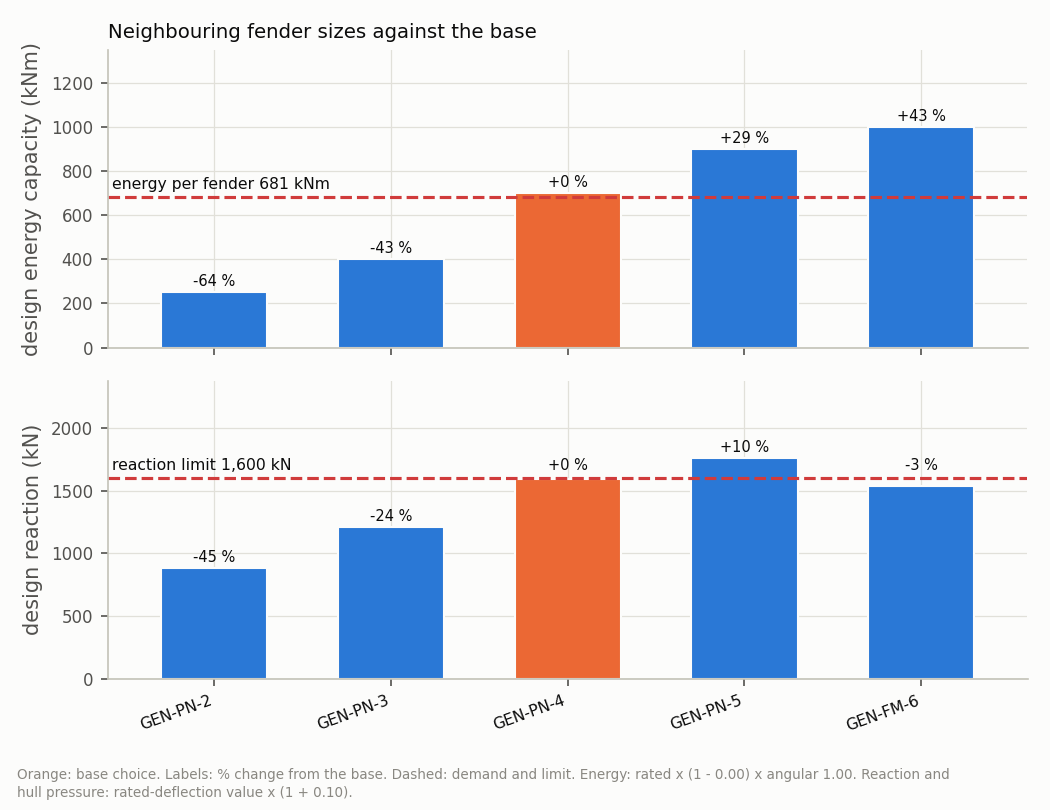
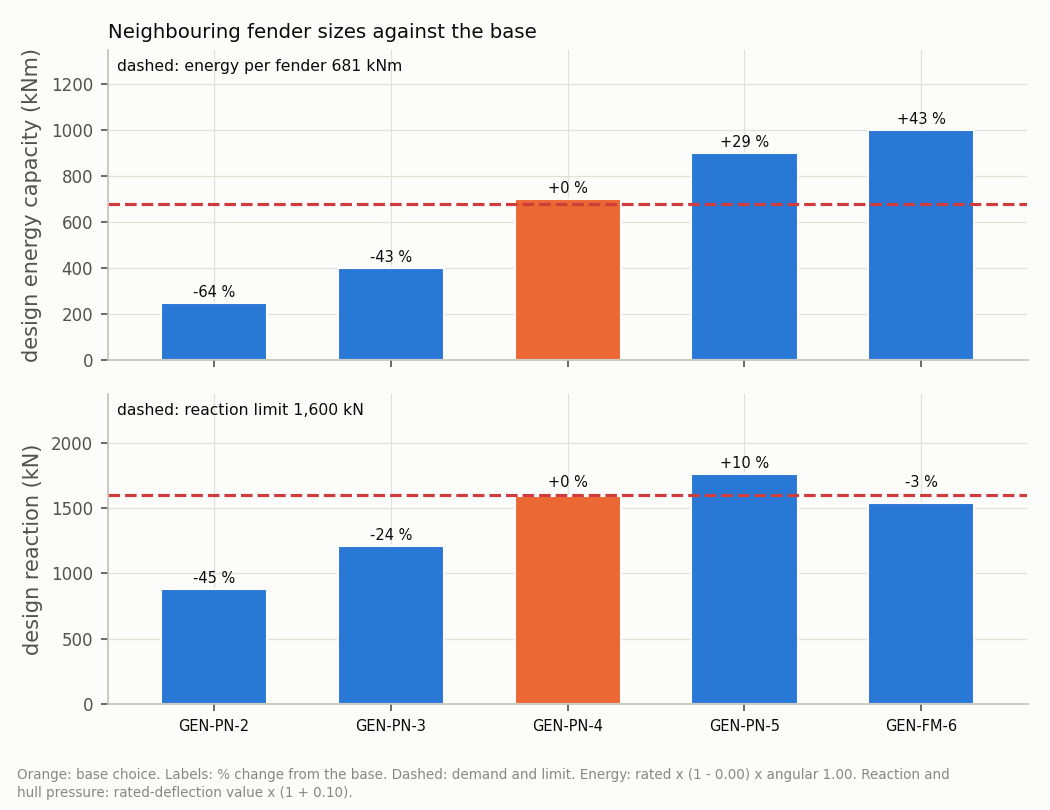
fix(fender-design): chart labels clear for cases beyond the generic one
The layout check passed for the generic case while a client case built from
this module still failed it (second-provider review of that report, P3):

- size chart: the limit labels sat beside their lines, where a bar label can
  sit; the dashed lines are now named in the headroom above the bars, and the
  size names are wrapped and upright (rotated names overlapped);
- sweep chart: the reaction limit label is moved beside the 'reaches limit'
  line when that line would cross it;
- method charts: the label of the capacity or utilisation line turns to the
  left of the line when it would run past the right end of the axes.

Tests: one per defect, on synthetic data. Generic report: only sizes.png
changes; no number moves.

diff --git a/examples/hydrodynamics/fender_design/fender_charts.py b/examples/hydrodynamics/fender_design/fender_charts.py
@@ -9,8 +9,11 @@ Colours follow a fixed categorical order; limit lines use one reserved
 "limit" colour and always carry a text label, so colour is never the only cue.
 
 Layout: value axes keep headroom above the largest value or limit
-(:data:`HEADROOM`), limit labels sit just clear of their line, footnotes are
-wrapped inside a band reserved below the axes, and every chart is checked
+(:data:`HEADROOM`), limit labels sit just clear of their line and of any
+vertical limit line, a label beside a vertical line turns to the side with
+room, the limits of the size chart are named in the headroom, long category
+names are wrapped, footnotes are wrapped inside a band reserved below the
+axes, and every chart is checked
 before it is written (:func:`layout_issues`): text outside the figure,
 overlapping text or text across a limit line raises a
 :class:`ChartLayoutWarning`.
@@ -90,9 +93,14 @@ def _headroom(ax, *values):
     ax.set_ylim(0, HEADROOM * top if top > 0 else 1.0)
 
 
-def _limit_label(ax, xs, ys, y_line, text):
+def _limit_label(ax, xs, ys, y_line, text, clear_x=()):
     """Label a horizontal limit line just above it, at the end of the x range
-    where the data are lower (an end without data counts as lower)."""
+    where the data are lower (an end without data counts as lower).
+
+    ``clear_x`` are the x positions of vertical lines in the same axes: after
+    layout a label that one of them would cross is moved beside it, to the
+    side with room (:func:`_beside`).
+    """
     first, last = ys[0], ys[-1]
     if not math.isfinite(first):
         left = True
@@ -101,8 +109,31 @@ def _limit_label(ax, xs, ys, y_line, text):
     else:
         left = first <= last
     x, ha, dx = (xs[0], "left", 2.0) if left else (xs[-1], "right", -2.0)
-    return ax.annotate(text, (x, y_line), textcoords="offset points", xytext=(dx, GAP_PT),
-                       ha=ha, va="bottom", fontsize=7.5, color=INK)
+    label = ax.annotate(text, (x, y_line), textcoords="offset points", xytext=(dx, GAP_PT),
+                        ha=ha, va="bottom", fontsize=7.5, color=INK)
+    if clear_x:
+        _beside(ax.figure, ax, label, clear_x)
+    return label
+
+
+def _beside(fig, ax, label, at):
+    """After layout, move the offset-point annotation ``label`` off each
+    vertical line at the data positions ``at`` that crosses it: to the right
+    of the line when the label then still ends inside the axes, else to its
+    left."""
+    def hook(renderer):
+        gap = (GAP_PT + 1.0) * fig.dpi / 72.0
+        ab = ax.get_window_extent(renderer)
+        for v in sorted(at):
+            bb = label.get_window_extent(renderer)
+            p = ax.transData.transform((v, 0.0))[0]
+            if not (bb.x0 - gap < p < bb.x1 + gap):
+                continue
+            right = p + gap + bb.width <= ab.x1 - 1.0
+            shift = (p + gap - bb.x0) if right else (p - gap - bb.x1)
+            dx, dy = label.xyann
+            label.xyann = (dx + shift * 72.0 / fig.dpi, dy)
+    fig._after_layout.append(hook)
 
 
 def _corner_label(ax, x_mark, text):
@@ -278,8 +309,9 @@ def sweep_chart(sweep, path, title: str, fender_label: str):
     _headroom(ax2, sweep.reaction_limit_kn, *r)
     if sweep.reaction_limit_kn is not None:
         ax2.axhline(sweep.reaction_limit_kn, color=LIMIT, linewidth=1.5, linestyle="--")
-        _limit_label(ax2, xs, r, sweep.reaction_limit_kn, f"reaction limit {sweep.reaction_limit_kn:,.0f} kN")
         x_lim = sweep.reaction_limit_value()
+        _limit_label(ax2, xs, r, sweep.reaction_limit_kn, f"reaction limit {sweep.reaction_limit_kn:,.0f} kN",
+                     clear_x=() if x_lim is None else (x_lim,))
         if x_lim is not None:
             ax2.axvline(x_lim, color=LIMIT, linewidth=1.0, linestyle=":")
             lo, hi = ax2.get_xlim()
@@ -363,9 +395,28 @@ def outside_validity(res) -> list[str]:
 
 
 def _vline_label(ax, x, y, text):
-    """Label a vertical limit line at ``x`` just right of it."""
-    return ax.annotate(text, (x, y), textcoords="offset points", xytext=(GAP_PT + 1.0, 0.0),
-                       fontsize=7.5, color=INK, va="center")
+    """Label a vertical limit line at ``x`` just right of it; after layout a
+    label that would run past the right end of the axes turns to the left of
+    the line."""
+    label = ax.annotate(text, (x, y), textcoords="offset points", xytext=(GAP_PT + 1.0, 0.0),
+                        fontsize=7.5, color=INK, va="center")
+    fig = ax.figure
+
+    def hook(renderer):
+        if label.get_window_extent(renderer).x1 > ax.get_window_extent(renderer).x1 - 1.0:
+            label.set_ha("right")
+            label.xyann = (-(GAP_PT + 1.0), 0.0)
+    fig._after_layout.append(hook)
+    return label
+
+
+def _wrap_names(fig, names, font_pt: float) -> list[str]:
+    """Category names wrapped at spaces so that each fits its share of the
+    figure width (about 80 % of the width is axes) at ``font_pt``."""
+    slot_pt = 0.8 * fig.get_figwidth() * 72.0 / max(len(names), 1)
+    chars = max(int(slot_pt / (0.62 * font_pt)), 6)
+    return ["\n".join(textwrap.wrap(str(n), width=chars, break_long_words=False, break_on_hyphens=False)
+                      or [str(n)]) for n in names]
 
 
 def method_chart(results, path, title: str, capacity_knm: float | None = None,
@@ -509,7 +560,9 @@ def size_comparison_chart(rows, path, title: str, design_energy_knm: float,
     ``energy_knm`` and ``reaction_kn`` in each row are the values to compare
     with the demand and the limit, i.e. after the case's tolerances,
     reductions and capacity divisor; ``basis_note`` states that basis. Bar
-    labels that would cross a limit line are moved just above it.
+    labels that would cross a limit line are moved just above it; the limit
+    lines are named in the headroom above the bars, and the size names are
+    wrapped and upright.
     """
     fig, (ax1, ax2) = _fig(2, height=5.4, sharex=True)
     names = [r["label"] for r in rows]
@@ -523,8 +576,10 @@ def size_comparison_chart(rows, path, title: str, design_energy_knm: float,
     ax1.axhline(design_energy_knm, color=LIMIT, linestyle="--", linewidth=1.5)
     ax1.set_xlim(-0.6, len(rows) - 0.4)
     _headroom(ax1, design_energy_knm, *energy)
-    _limit_label(ax1, [-0.6, len(rows) - 0.4], [energy[0], energy[-1]], design_energy_knm,
-                 f"energy per fender {design_energy_knm:,.0f} kNm")
+    # a bar can end at any height, so the dashed lines are named in the headroom
+    # above every bar, not beside the line where a bar label may sit
+    ax1.text(0.01, 0.97, f"dashed: energy per fender {design_energy_knm:,.0f} kNm", transform=ax1.transAxes,
+             ha="left", va="top", fontsize=7.5, color=INK)
     lab1 = [ax1.annotate(f"{r['energy_change_pct']:+.0f} %", (x, r["energy_knm"]), textcoords="offset points",
                          xytext=(0, 1.5), ha="center", va="bottom", fontsize=7, color=INK)
             for x, r in zip(xs, rows)]
@@ -534,8 +589,8 @@ def size_comparison_chart(rows, path, title: str, design_energy_knm: float,
     _headroom(ax2, reaction_limit_kn, *reaction)
     if reaction_limit_kn:
         ax2.axhline(reaction_limit_kn, color=LIMIT, linestyle="--", linewidth=1.5)
-        _limit_label(ax2, [-0.6, len(rows) - 0.4], [reaction[0], reaction[-1]], reaction_limit_kn,
-                     f"reaction limit {reaction_limit_kn:,.0f} kN")
+        ax2.text(0.01, 0.97, f"dashed: reaction limit {reaction_limit_kn:,.0f} kN", transform=ax2.transAxes,
+                 ha="left", va="top", fontsize=7.5, color=INK)
     lab2 = [ax2.annotate(f"{r['reaction_change_pct']:+.0f} %", (x, r["reaction_kn"]), textcoords="offset points",
                          xytext=(0, 1.5), ha="center", va="bottom", fontsize=7, color=INK)
             for x, r in zip(xs, rows)]
@@ -543,7 +598,7 @@ def size_comparison_chart(rows, path, title: str, design_energy_knm: float,
         _clear_of(fig, ax2, lab2, [reaction_limit_kn])
     ax2.set_ylabel("design reaction (kN)")
     ax2.set_xticks(xs)
-    ax2.set_xticklabels(names, fontsize=7.5, rotation=20, ha="right", color=INK)
+    ax2.set_xticklabels(_wrap_names(fig, names, 7.0), fontsize=7.0, color=INK)
     ax1.set_title(title, fontsize=9.5, color=INK, loc="left")
     _footnote(fig, "Orange: base choice. Labels: % change from the base. Dashed: demand and limit."
               + (f" {basis_note}" if basis_note else ""))

diff --git a/tests/hydrodynamics/fender_design/test_sizes_and_charts.py b/tests/hydrodynamics/fender_design/test_sizes_and_charts.py
@@ -400,3 +400,71 @@ def test_sweep_chart_keeps_headroom_above_the_limit_and_the_data():
     rtop = max([p.reaction_kn for p in sw.points if p.reaction_kn is not None] + [sw.reaction_limit_kn])
     assert ax2.get_ylim()[1] >= 1.25 * rtop
     plt.close(figs["wd.png"])
+
+
+# Second-provider review of a client report built from this module (16 Nov 2026):
+# the checks above passed for the generic case while another case still had a
+# limit label over a bar label, a limit label crossed by the "reaches limit"
+# line, a utilisation-line label past the right edge and long size names.
+
+
+def _chart_problems(draw):
+    import warnings
+    with warnings.catch_warnings(record=True) as caught:
+        warnings.simplefilter("always")
+        draw()
+    return [str(w.message) for w in caught if issubclass(w.category, fc.ChartLayoutWarning)]
+
+
+def test_size_chart_is_clear_when_a_bar_ends_near_a_limit_and_names_are_long(tmp_path):
+    names = ["PNE 2000x3500-50", "PNE 2000x3500-80", "PNE 2500x4000-50", "PNE 2500x4000-80",
+             "PNE 2500x5500-50", "PNE 3300x4500-50", "PNE 3300x6500-50"]
+    energy = [308.0, 430.0, 663.0, 925.0, 943.0, 1175.0, 1814.0]
+    reaction = [963.0, 1260.0, 1519.0, 1997.0, 2222.0, 2062.0, 3317.0]
+    rows = [dict(label=n, is_base=i == 2, energy_knm=e, reaction_kn=r,
+                 energy_change_pct=(e / 663.0 - 1) * 100, reaction_change_pct=(r / 1519.0 - 1) * 100)
+            for i, (n, e, r) in enumerate(zip(names, energy, reaction))]
+    problems = _chart_problems(lambda: fc.size_comparison_chart(
+        rows, tmp_path / "sizes.png", "Neighbouring fender sizes against the base", 271.0, 1381.0,
+        basis_note="Energy: rated x (1 - 0.00) x angular 1.00. Reaction and hull pressure: rated-deflection "
+                   "value x (1 + 0.10)."))
+    assert problems == []
+
+
+@pytest.mark.parametrize("utilisations", [[0.41, 0.98], [0.41, 1.08], [0.41, 2.6]])
+def test_utilisation_line_label_stays_inside_the_axes(tmp_path, utilisations):
+    from types import SimpleNamespace
+    results = [SimpleNamespace(label=f"method {i} with a long label, velocity 0.12 m/s, factor 1.25",
+                               design_energy_knm=600.0 * u, flags=())
+               for i, u in enumerate(utilisations)]
+    problems = _chart_problems(lambda: fc.method_utilisation_chart(
+        results, utilisations, tmp_path / "u.png", "Utilisation by method", note="Capacity note."))
+    assert problems == []
+
+
+def test_capacity_line_label_stays_inside_the_axes(tmp_path):
+    from types import SimpleNamespace
+    results = [SimpleNamespace(label=f"step {i}", design_energy_knm=e, flags=())
+               for i, e in enumerate([540.0, 360.0, 271.0])]
+    problems = _chart_problems(lambda: fc.method_chart(
+        results, tmp_path / "m.png", "Design energy by step", capacity_knm=663.0,
+        capacity_label="a long capacity label: rated energy of the selected fender"))
+    assert problems == []
+
+
+def test_sweep_limit_label_is_clear_of_the_reaches_limit_line(tmp_path):
+    """The reaction reaches its limit just before the end of the sweep and the last point is unrated."""
+    from types import SimpleNamespace
+    xs = [0.03 + 0.135 * i / 40 for i in range(41)]
+    pts = [SimpleNamespace(value=x, energy_per_fender_knm=25_000.0 * x * x,
+                           reaction_kn=(56_000.0 * x * x + 60.0) if i < 40 else None)
+           for i, x in enumerate(xs)]
+    x_lim = ((1381.0 - 60.0) / 56_000.0) ** 0.5
+    sweep = SimpleNamespace(
+        points=pts, range_low=0.049, range_high=0.15, base_value=0.1043, capacity_knm=663.0,
+        reaction_limit_kn=1381.0, unit="m/s", label="berthing velocity", range_basis="test range",
+        reaction_factor=1.10, parameter="velocity_m_s",
+        at=lambda v: min(pts, key=lambda p: abs(p.value - v)), reaction_limit_value=lambda: x_lim)
+    assert xs[-2] > x_lim > 0.6 * xs[-1]
+    problems = _chart_problems(lambda: fc.sweep_chart(sweep, tmp_path / "s.png", "Berthing velocity", "PNE"))
+    assert problems == []
